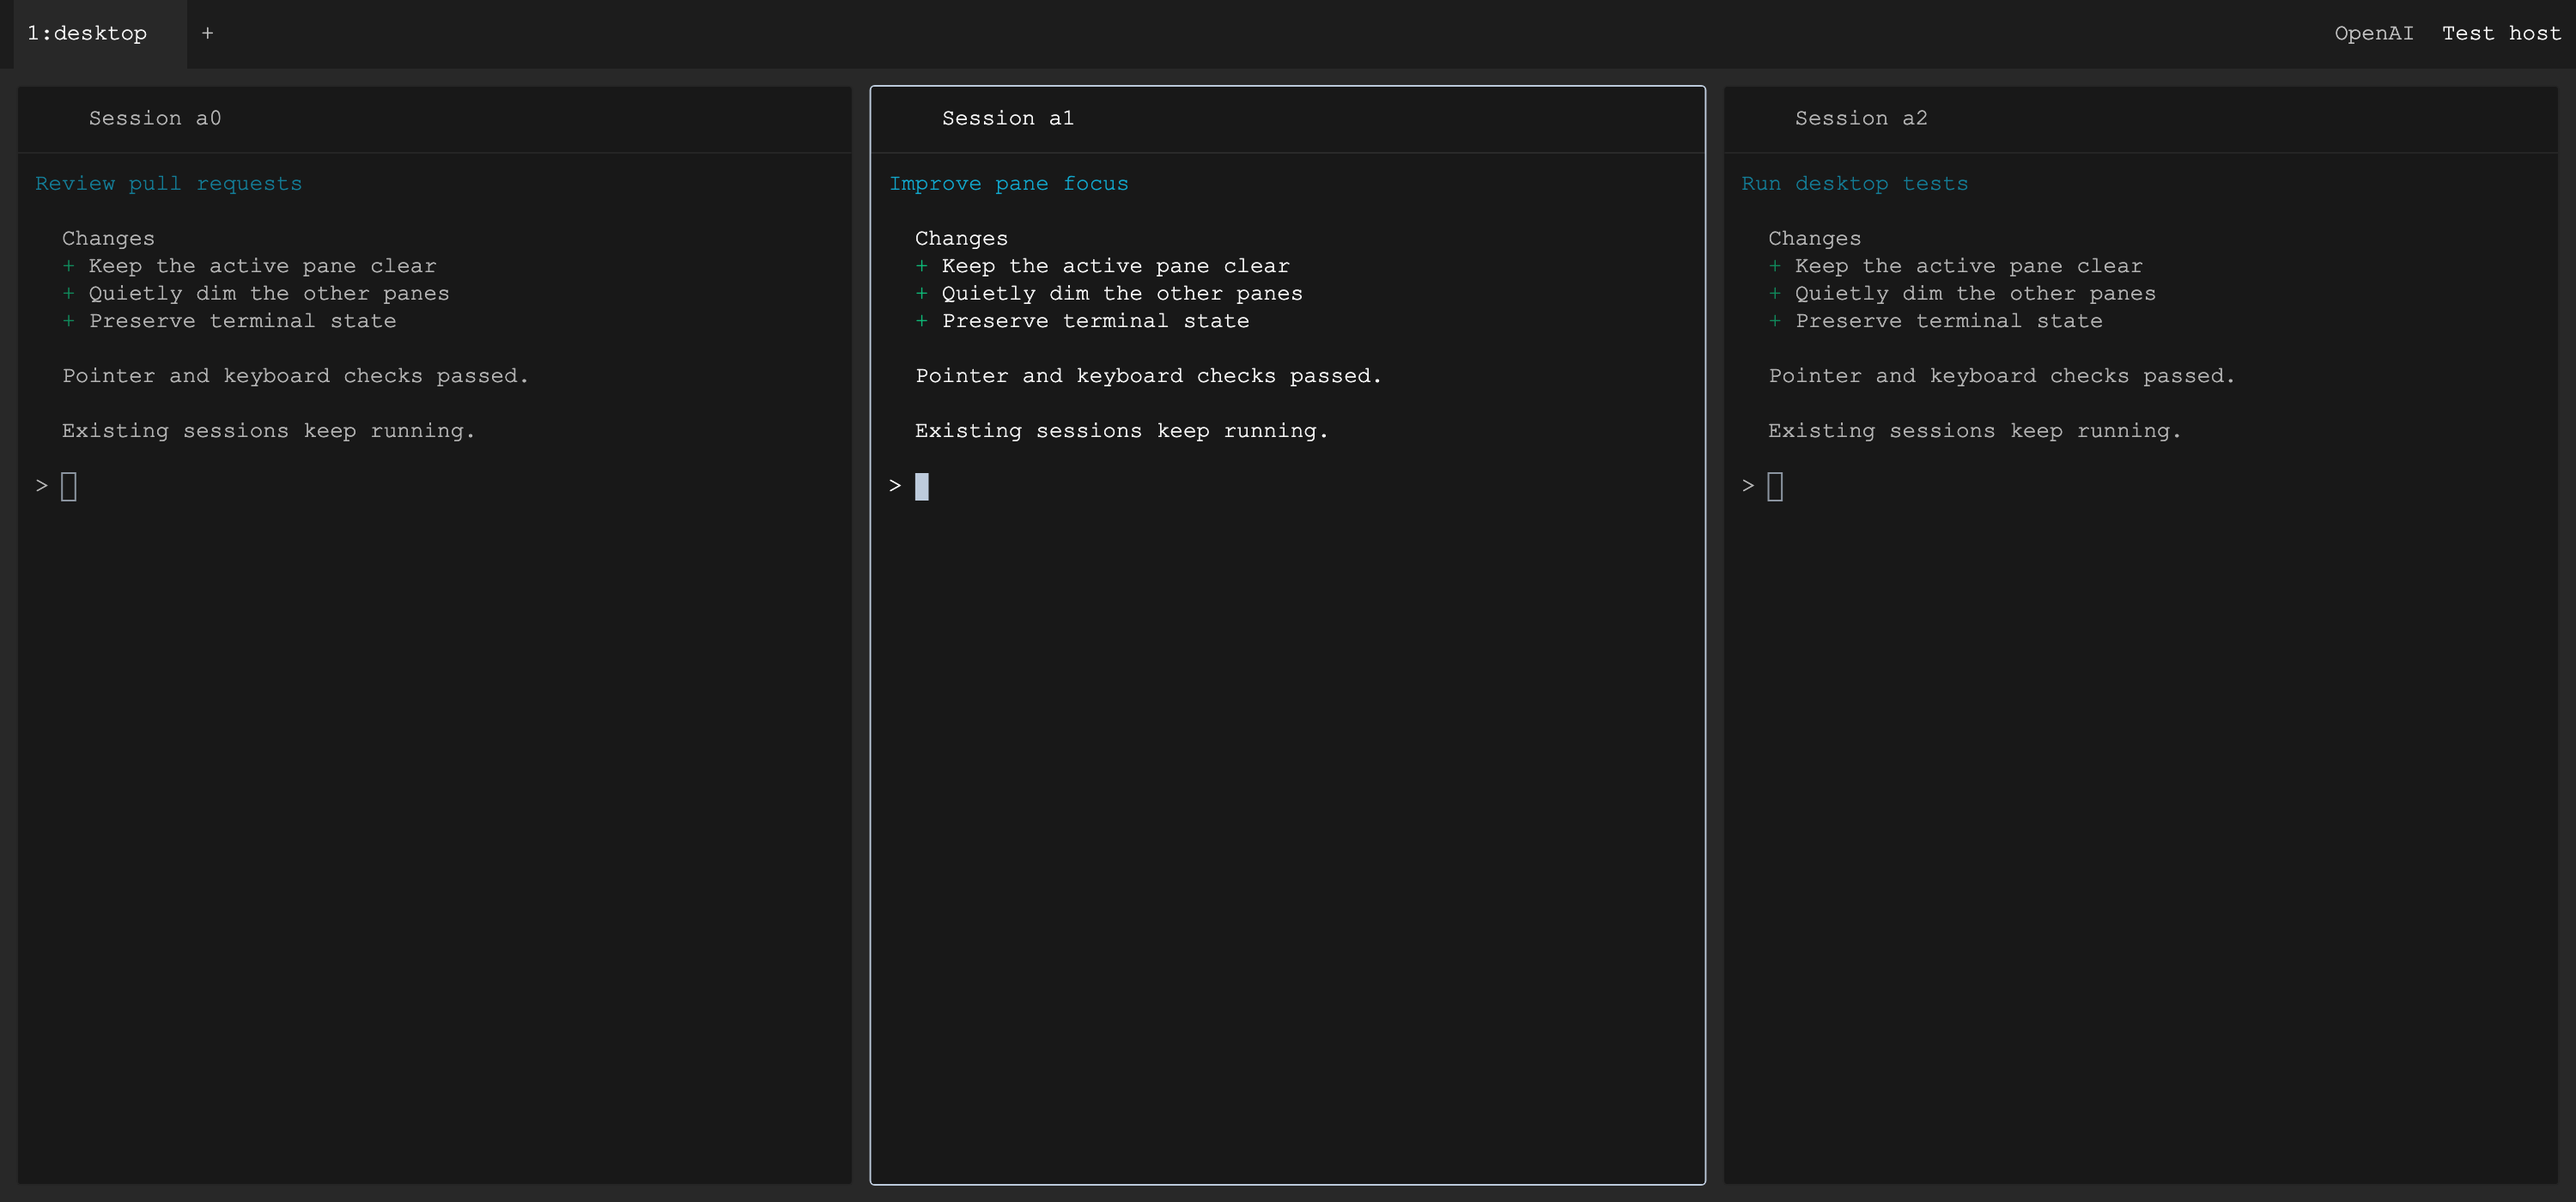
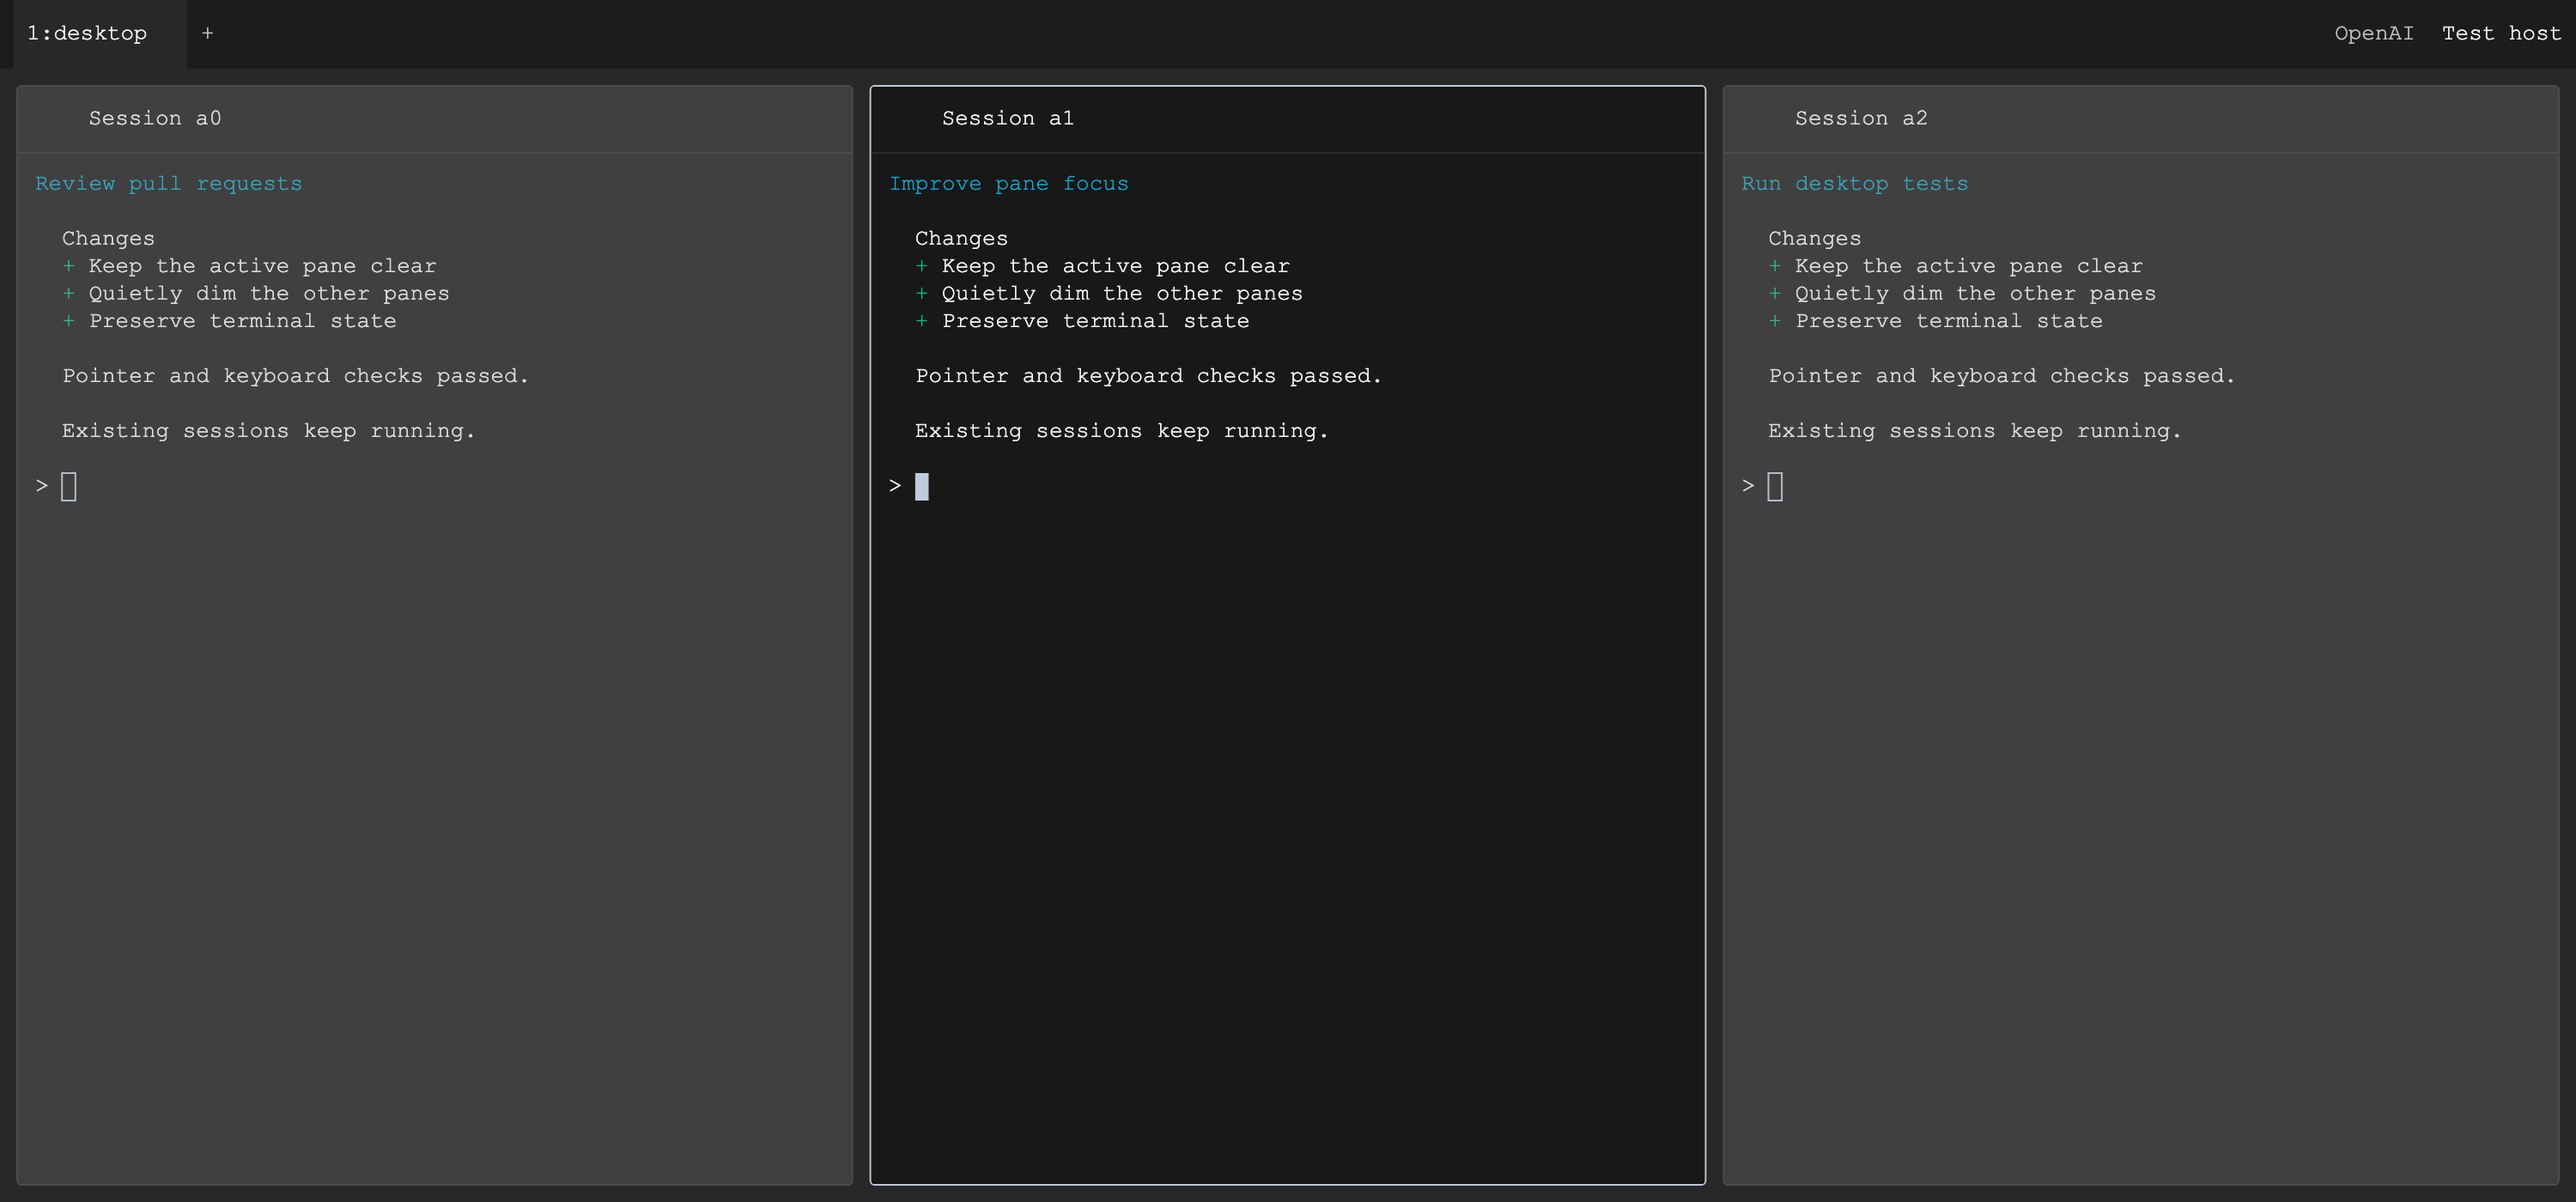
Improve inactive desktop pane contrast (#441)

diff --git a/desktop/lib/widgets/pane_grid.dart b/desktop/lib/widgets/pane_grid.dart
@@ -1207,14 +1207,14 @@ class _PaneCell extends StatelessWidget {
             terminalPaneBorder(focused: !_single && focused),
           ),
         ),
-        // Mute inactive content without a new layer of hit targets, animation,
-        // or changes to terminal colors. Paint attention above the dimming so
+        // A neutral gray veil lifts inactive backgrounds and softens their text
+        // without changing terminal colors. Paint attention above the veil so
         // a waiting question keeps its full-strength amber rim. Keep this
         // decoration present even when clear: inserting/removing it would
         // reparent the terminal and lose its input, scroll and selection state.
         foregroundDecoration: BoxDecoration(
           color: dimmed
-              ? grid.AppPalette.windowBg.withValues(alpha: .30)
+              ? const Color(0xFF9D9D9D).withValues(alpha: .30)
               : null,
           border: blocked
               ? Border.all(color: grid.AppPalette.warn, width: 2)

diff --git a/desktop/design/terminal-workspace.md b/desktop/design/terminal-workspace.md
@@ -95,11 +95,13 @@ dialogs use the same thin frame as a focused pane. Avoid raised cards, shadows,
 rounded action pills, and redundant headings. Tabs use concise text labels, with
 selection conveyed by background rather than bold type.
 
-The selected pane stays at full contrast; other panes receive a subtle 30%
-background-color veil over their header and content. Selection follows the
-existing click and keyboard focus actions. Keep the current pane clear while a
-menu or the tab strip temporarily owns keyboard focus. A single or zoomed pane
-stays clear. Waiting-question borders paint above the veil, at full strength.
+The selected pane stays at full contrast; other panes receive a 30% neutral-gray
+veil (`#9D9D9D`) over their header and content, lifting dark backgrounds while
+softening text. In the default Graphite palette, inactive backgrounds render as
+`#404040` (RGB 64, 64, 64). Selection follows the existing click and keyboard
+focus actions. Keep the current pane clear while a menu or the tab strip
+temporarily owns keyboard focus. A single or zoomed pane stays clear.
+Waiting-question borders paint above the veil, at full strength.
 This is a paint treatment: retain terminal state and let the first click reach
 the pane underneath.
 
